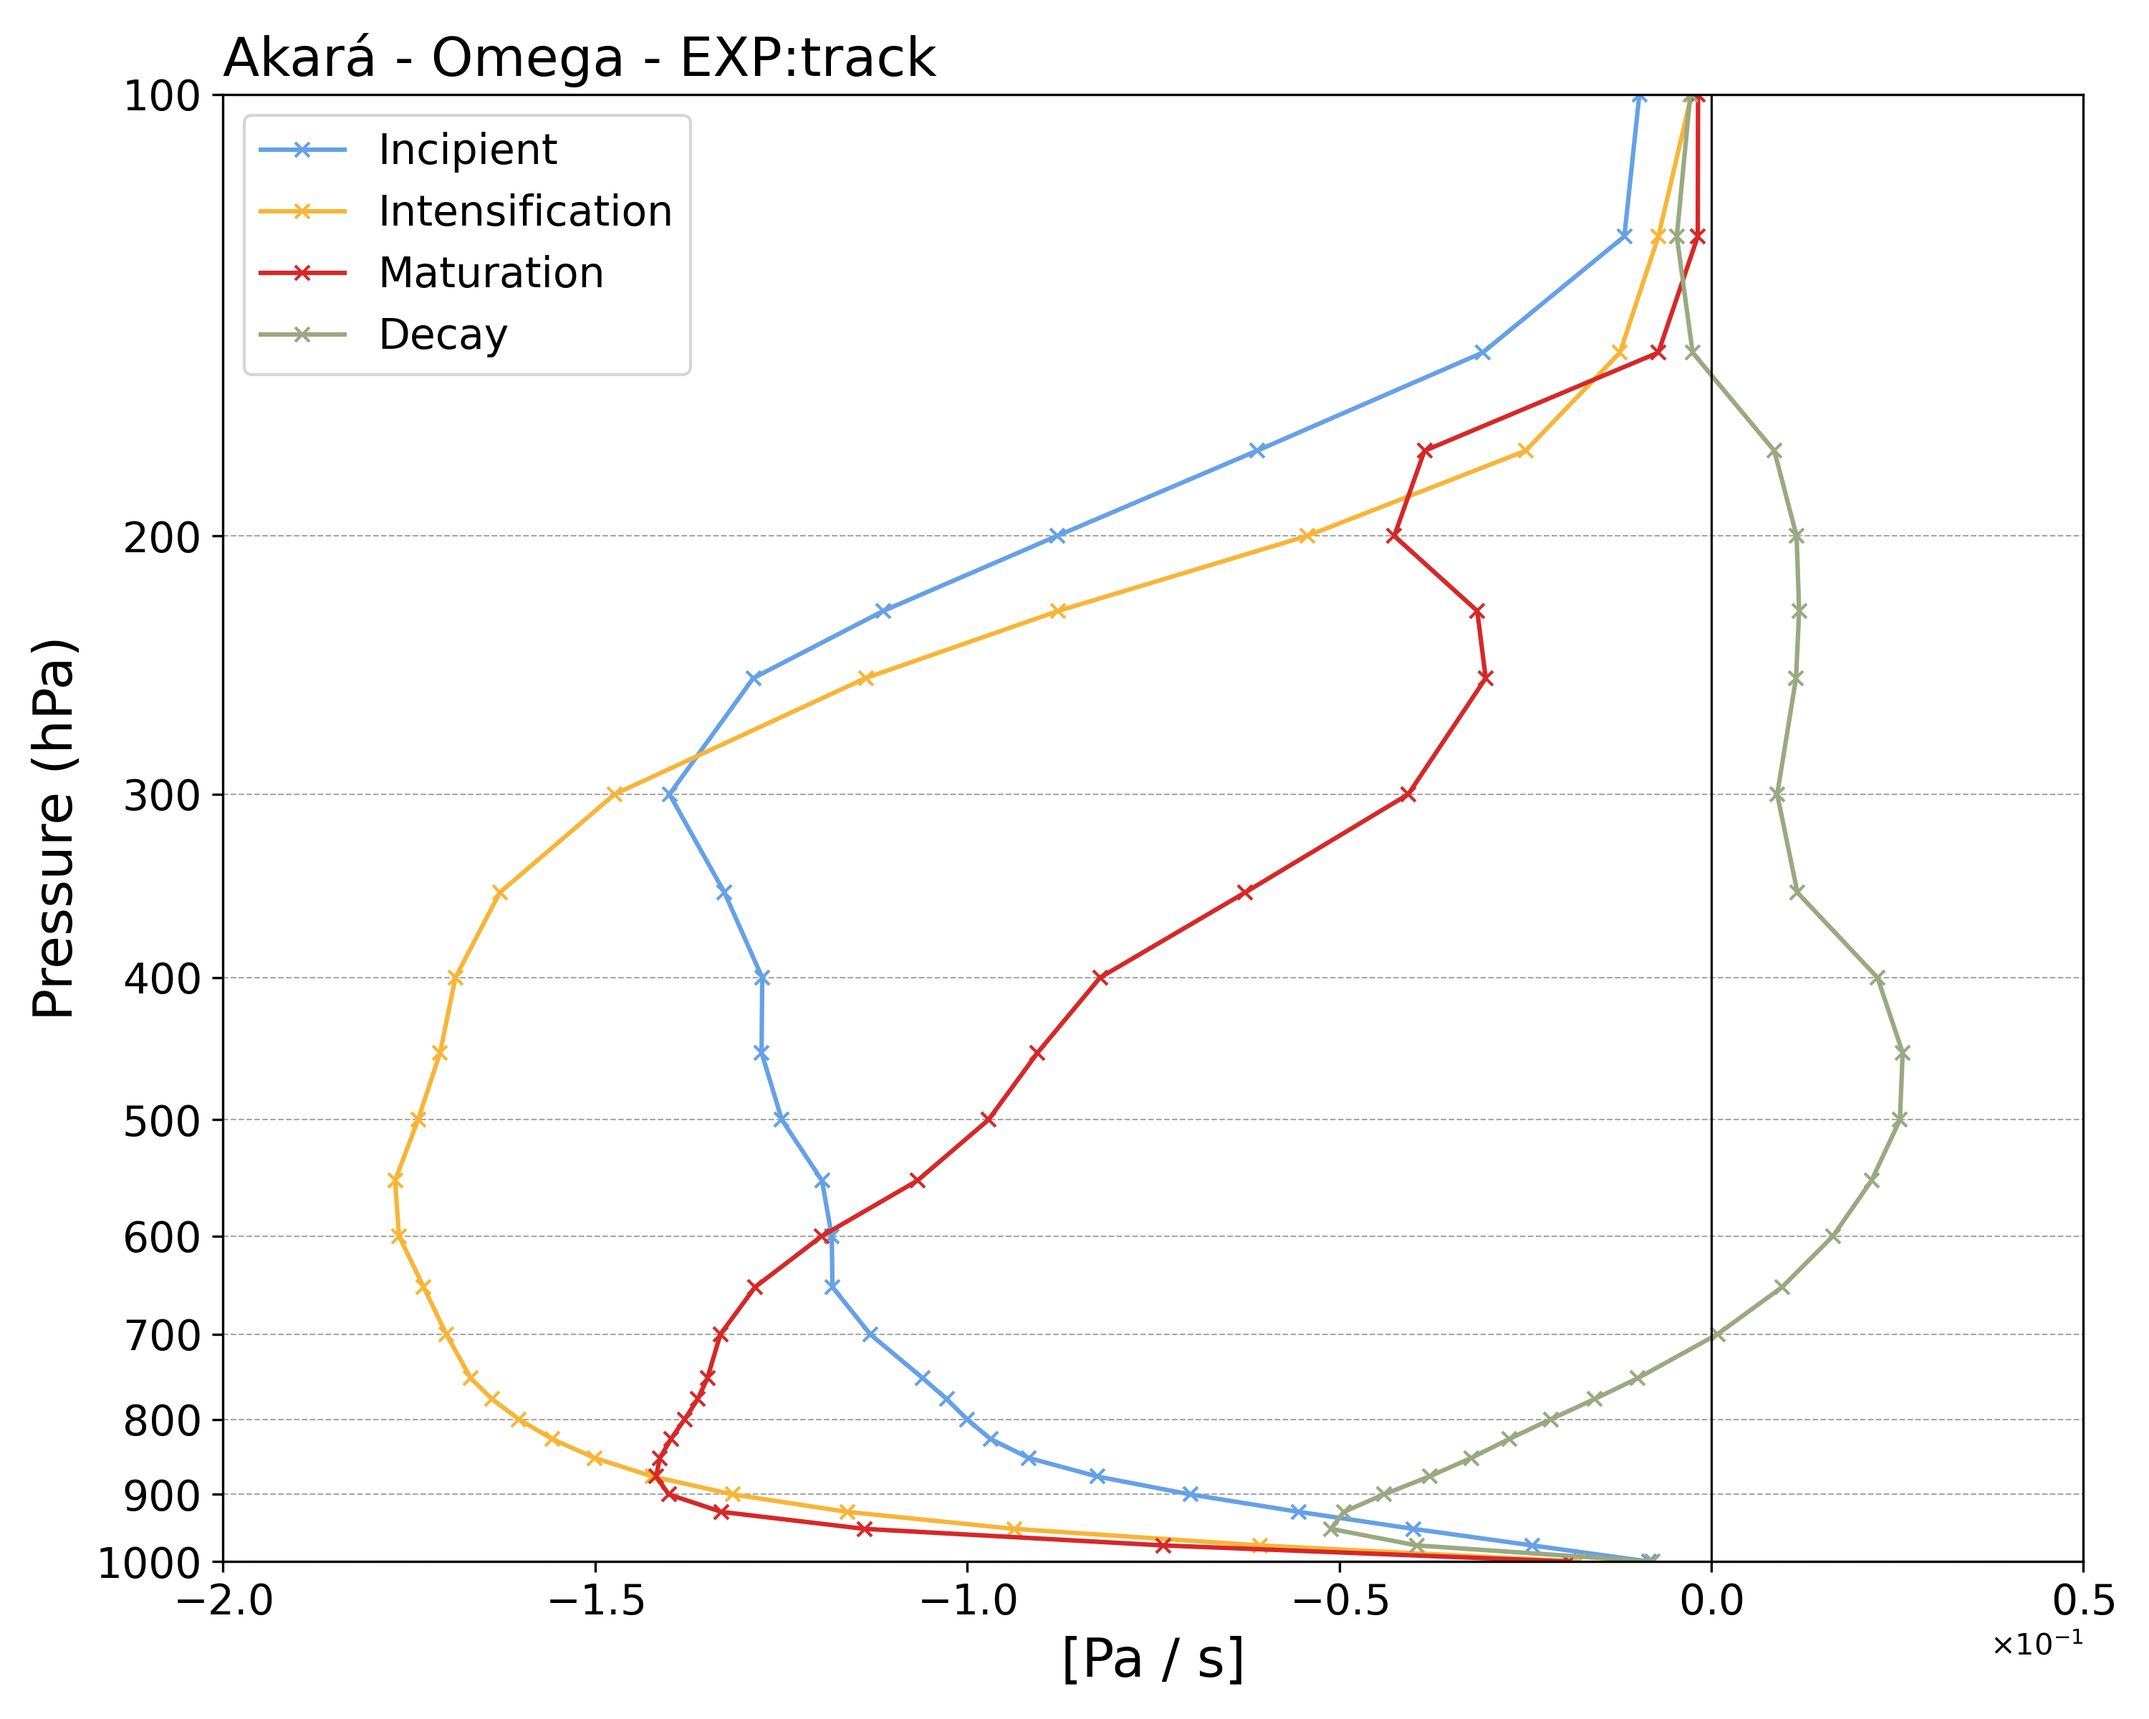
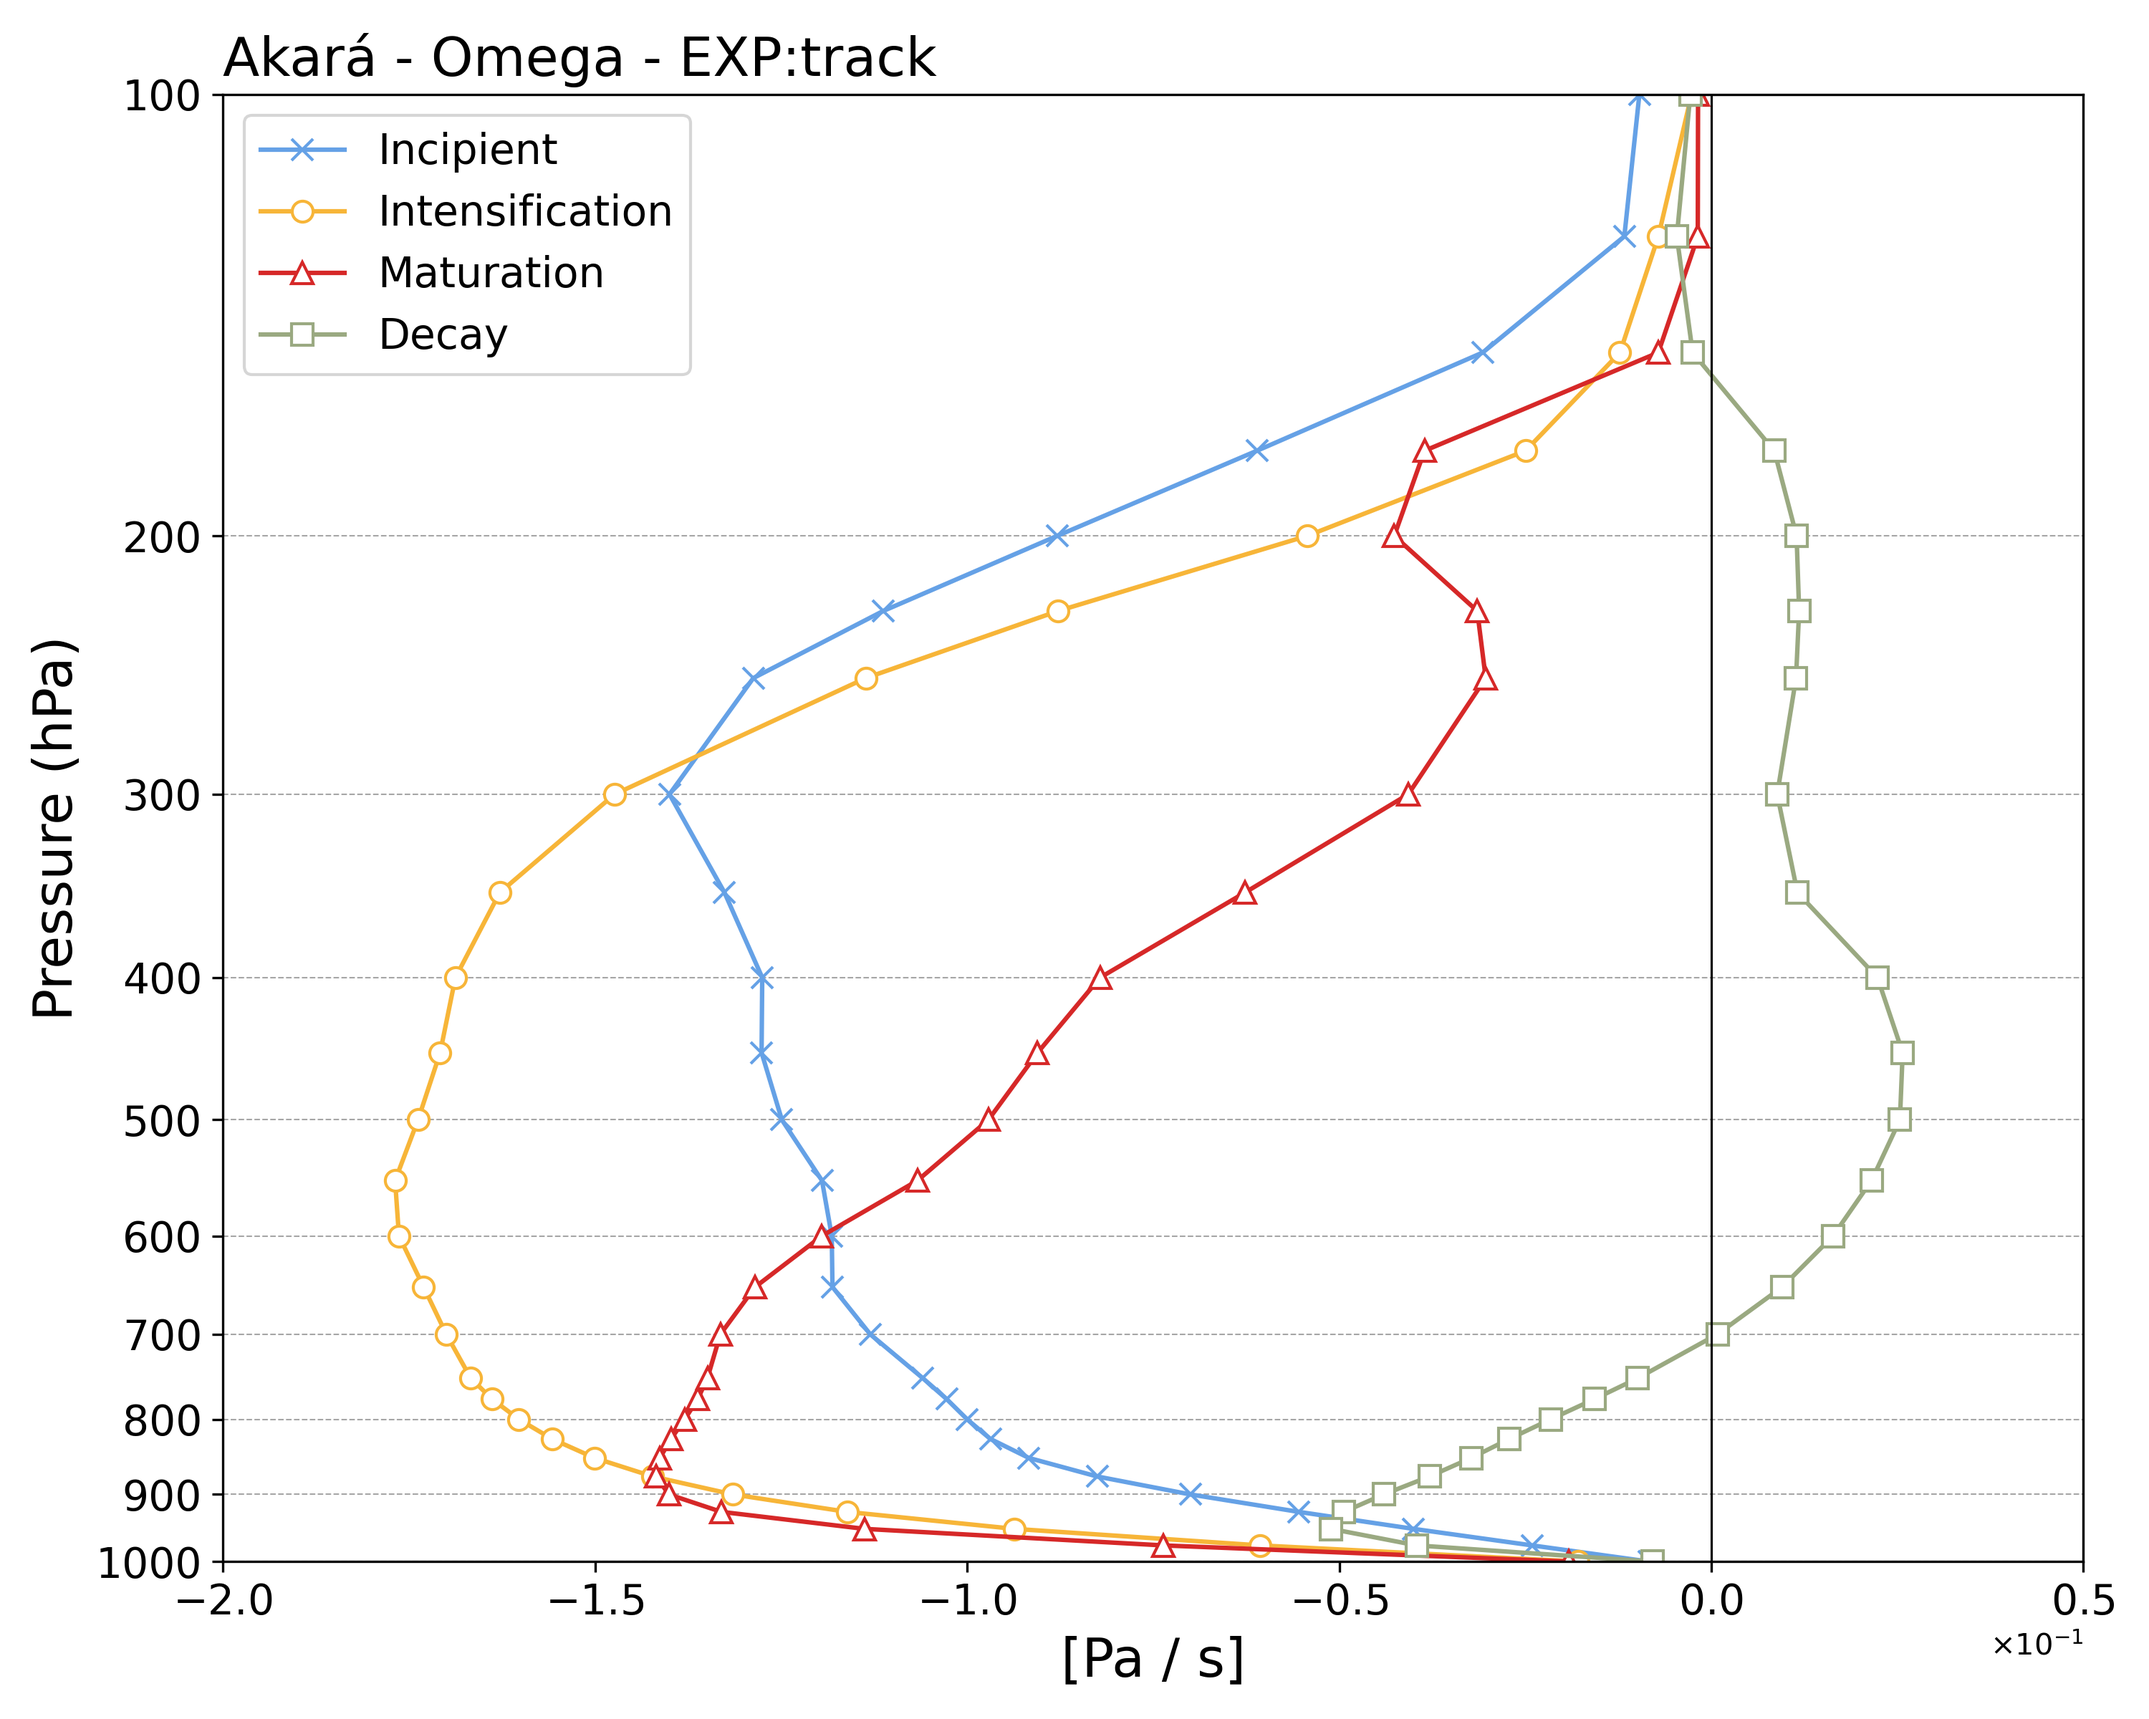
atualização

diff --git a/Akara/AtmosBud/akara1_track/Scripts/T_perfil.py b/Akara/AtmosBud/akara1_track/Scripts/T_perfil.py
@@ -1,31 +1,22 @@
 import matplotlib.pyplot as plt
 import matplotlib.ticker as ticker
 import pandas as pd
-import numpy as np
 import os
 
+# ======================== SETUP DE CONFIGURAÇÃO ========================
 DIRDADO = '/home/victor/USP/sinotica3/ATMOS-BUD_Results/Akara/AtmosBud/akara1_track/'
 DIRFIGS = '/home/victor/USP/sinotica3/ATMOS-BUD_Results/Akara/AtmosBud/akara1_track/Figures/T_balanc_track/'
-# Lista de arquivos de dados
-dTdt = DIRDADO + 'dTdt.csv'
-AdvHTemp = DIRDADO + 'AdvHTemp.csv'
-AdvVTemp = DIRDADO + 'AdvVTemp.csv'
-SigmaOmega = DIRDADO + 'Sigma_omega.csv'
-ResT = DIRDADO + 'ResT.csv'
 
-#lista_arquivos = [dTdt]
-#lista_arquivos = [AdvHTemp]
-#lista_arquivos = [AdvVTemp]
-lista_arquivos = [SigmaOmega]
-#lista_arquivos = [ResT]
+# Configurações específicas para cada arquivo
+configs = {
+    'dTdt': {'label': 'Local Temperature Tendency', 'vmin': -0.25, 'vmax': 0.5},
+    'AdvHTemp': {'label': 'Horizontal Temperature Advection', 'vmin': -2, 'vmax': 2},
+    'AdvVTemp': {'label': 'Vertical Temperature Advection', 'vmin': -2, 'vmax': 2},
+    'Sigma_omega': {'label': 'Total Vertical Motion Effect', 'vmin': -15, 'vmax': 5},
+    'ResT': {'label': 'Diabatic Heating', 'vmin': -1, 'vmax': 1}
+}
 
-labels = ['Local Temperature Tendency',
-          'Horizontal Temperature Advection',
-          'Vertical Temperature Advection',
-          'Total Vertical Motion Effect',
-          'Diabatic Heating'] 
-
-# Intervalos de datas a serem usados para as fases
+# Intervalos de datas para as fases
 date_intervals = [
     ('2024-02-14T21', '2024-02-16T09'),  # Incipiente
     ('2024-02-16T09', '2024-02-19T15'),  # Intensificação
@@ -33,66 +24,71 @@ date_intervals = [
     ('2024-02-20T06', '2024-02-22T21')   # Declínio
 ]
 
-# Loop para processar cada arquivo da lista
-for i in lista_arquivos:
-    nome_arquivo = i.rsplit('/', 1)[-1].split('.')[0]  # Extrair nome do arquivo sem extensão
+# Nomes das fases e cores associadas
+curves = ['Incipient', 'Intensification', 'Maturation', 'Decay']
+colors = ['#65a1e6', '#f7b538', '#d62828', '#9aa981']  # Cores acessíveis para daltonismo
 
-    # Ler os dados em um DataFrame e ajustar o índice e as colunas
-    df = pd.read_csv(i, index_col=[0])
-    df.index = df.index / 100  # Ajustar o índice (supondo que esteja em decapascais)
-    df.columns = pd.to_datetime(df.columns)  # Converter colunas para datetime
-    df.columns = df.columns.strftime('%Y-%m-%dT%H')  # Formatar colunas como 'YYYY-MM-DDTHH'
+# Lista de marcadores diferentes
+markers = ['x', 'o', '^', 's']
 
-    # Criar subplots com tamanho maior verticalmente
-    fig, ax = plt.subplots(figsize=(8, 6))
+# ========================== LOOP PRINCIPAL ============================
+for nome_arquivo, config in configs.items():
+    caminho_arquivo = os.path.join(DIRDADO, nome_arquivo + '.csv')
 
-    # Cores acessíveis para daltonismo
-    colors = ['#65a1e6', '#f7b538', '#d62828', '#9aa981']
-    curves = ['Incipient', 'Intensification', 'Maturation', 'Decay']
+    # Verificar se o arquivo existe
+    if not os.path.isfile(caminho_arquivo):
+        print(f"Arquivo {caminho_arquivo} não encontrado. Pulando...")
+        continue
 
-    # Plotar cada fase usando os intervalos de data
-    for idx, date_interval in enumerate(date_intervals):
-        date1, date2 = date_interval
+    # Ler o arquivo CSV
+    df = pd.read_csv(caminho_arquivo, index_col=[0])
+    df.index = df.index / 100  # Ajustar índice (assumindo que está em decapascais)
+    df.columns = pd.to_datetime(df.columns).strftime('%Y-%m-%dT%H')
 
-        # Selecionar os dados do intervalo de tempo e calcular a média
+    # Criar subplots
+    fig, ax = plt.subplots(figsize=(10, 8))
+
+    # Plotar cada fase usando os intervalos de datas
+    for idx, (date1, date2) in enumerate(date_intervals):
         selected_data = df.loc[:, date1:date2]
         selected_data_mean = selected_data.mean(axis=1)
 
-        # Converter a média para valores diários (86400 segundos por dia)
-        dia = 86400
-        ax.plot(selected_data_mean * dia, df.index, label=curves[idx], 
-                color=colors[idx], marker='x', markerfacecolor='white', markersize=5)
+        # Usar marcadores diferentes para cada curva
+        ax.plot(
+            selected_data_mean, df.index, 
+            label=curves[idx], color=colors[idx], 
+            marker=markers[idx], markerfacecolor='white', markersize=7
+        )
 
-    # Configurações do eixo Y - Escala logarítmica
+    # Customizações do gráfico
+    ax.axvline(0, c='k', linewidth=0.75)  # Linha vertical em x=0
+    ax.invert_yaxis()
+    ax.set_ylim(1000, 100)
     ax.set_yscale('log')
-    
-    ax.set_ylim(1000, 100)  # Limites do eixo Y
     ax.set_yticks([1000, 900, 800, 700, 600, 500, 400, 300, 200, 100])
     ax.set_yticklabels([1000, 900, 800, 700, 600, 500, 400, 300, 200, 100])
+    ax.set_xlabel('[K / day]', fontsize=18)
+    ax.set_ylabel('Pressure (hPa)', fontsize=18)
+    ax.grid(axis='y', linestyle='--', color='gray', alpha=0.7, linewidth=0.5)
 
-    # Outras customizações do gráfico
-    ax.axvline(0, c='k', linewidth=0.75)  # Linha vertical em x=0
-    #ax.invert_yaxis()  # Inverter o eixo Y (pressão)
-    ax.grid(axis='y', linestyle='--', color='gray', alpha=0.7, linewidth=0.5)  # Linhas de grade horizontais
-
-    # Definir título e rótulos dos eixos
-    ax.set_title(f'Akará - Total Vertical Motion Effect - EXP:track', fontsize=12, loc='left')
-    ax.set_xlabel('[K / day]', fontsize=11)
-    ax.set_ylabel('Pressure (hPa)', fontsize=12)
-    ax.set_xlim([-15, 5])
-
-    # Formatação científica para o eixo X
+    # Formatação do título e eixos
+    ax.set_title(f"Akará - {config['label']} - EXP:track", fontsize=18, loc='left')
     ax.xaxis.set_major_formatter(ticker.ScalarFormatter(useMathText=True))
     ax.ticklabel_format(style='sci', axis='x', scilimits=(0, 0))
+    ax.tick_params(axis='x', labelsize=18)  # Aumentar tamanho dos valores no eixo x
+    ax.tick_params(axis='y', labelsize=18)
 
-    # Definir fundo do gráfico como branco
+    # Fundo do gráfico
     ax.set_facecolor('#ffffff')
     fig.patch.set_facecolor('#ffffff')
 
-    # Exibir legenda e ajustar layout
-    plt.legend()
+    # Legenda e layout
+    plt.legend(fontsize=14)
     plt.tight_layout()
 
     # Salvar a figura
-    plt.savefig(DIRFIGS + nome_arquivo + '_track.png', dpi=300)
-    plt.close()  # Fechar a figura para liberar memória
+    caminho_fig = os.path.join(DIRFIGS, f"{nome_arquivo}_track.png")
+    plt.savefig(caminho_fig, dpi=300)
+    plt.close()
+
+    print(f"Figura salva: {caminho_fig}")

diff --git a/Akara/AtmosBud/akara1_track/Scripts/zeta_perfil.py b/Akara/AtmosBud/akara1_track/Scripts/zeta_perfil.py
@@ -8,12 +8,9 @@ DIRDADO = '/home/victor/USP/sinotica3/ATMOS-BUD_Results/Akara/AtmosBud/akara1_tr
 DIRFIGS = '/home/victor/USP/sinotica3/ATMOS-BUD_Results/Akara/AtmosBud/akara1_track/Figures/V_balanc_track/'
 
 # Lista de arquivos de dados
-
 Zeta = DIRDADO + 'Zeta.csv'
 
 lista_arquivos = [Zeta]
-
-
 labels = ['Zeta']
 
 # Intervalos de datas a serem usados para as fases
@@ -23,6 +20,9 @@ date_intervals = [
     ('2024-02-19T15', '2024-02-20T06'),  # Maturação
     ('2024-02-20T06', '2024-02-22T21')   # Declínio
 ]
+
+# Marcadores diferentes para cada fase
+markers = ['x', 'o', '^', 's', 'd', 'p', 'H', '*']
 
 # Loop para processar cada arquivo da lista
 for i in lista_arquivos:
@@ -49,10 +49,12 @@ for i in lista_arquivos:
         selected_data = df.loc[:, date1:date2]
         selected_data_mean = selected_data.mean(axis=1)
 
-        # Converter a média para valores diários (86400 segundos por dia)
-        #dia = 86400
-        ax.plot(selected_data_mean, df.index, label=curves[idx], 
-                color=colors[idx], marker='x', markerfacecolor='white', markersize=5)
+        # Usar marcadores diferentes para cada fase
+        ax.plot(
+            selected_data_mean, df.index, 
+            label=curves[idx], color=colors[idx], 
+            marker=markers[idx], markerfacecolor='white', markersize=7
+        )
 
     # Customizações do gráfico
     ax.axvline(0, c='k', linewidth=0.75)  # Linha vertical em x=0
@@ -68,7 +70,7 @@ for i in lista_arquivos:
     ax.set_title(f'Akará - Zeta - EXP:track', fontsize=12, loc='left')
     ax.set_xlabel('[1/s²]', fontsize=11)
     ax.set_ylabel('Pressure (hPa)', fontsize=12)
-    ax.set_xlim([-14e-5,2e-5])
+    ax.set_xlim([-14e-5, 2e-5])
 
     # Formatação científica para o eixo X
     ax.xaxis.set_major_formatter(ticker.ScalarFormatter(useMathText=True))
@@ -83,7 +85,7 @@ for i in lista_arquivos:
     fig.patch.set_facecolor('#ffffff')
 
     # Exibir legenda e ajustar layout
-    plt.legend()
+    plt.legend(fontsize=14)
     plt.tight_layout()
 
     # Salvar a figura

diff --git a/Akara/AtmosBud/akara1_track/Scripts/omega_perfil.py b/Akara/AtmosBud/akara1_track/Scripts/omega_perfil.py
@@ -7,14 +7,9 @@ import os
 DIRDADO = '/home/victor/USP/sinotica3/ATMOS-BUD_Results/Akara/AtmosBud/akara1_track/'
 DIRFIGS = '/home/victor/USP/sinotica3/ATMOS-BUD_Results/Akara/AtmosBud/akara1_track/Figures/V_balanc_track/'
 
-
 # Lista de arquivos de dados
-
 Omega = DIRDADO + 'Omega.csv'
-
 lista_arquivos = [Omega]
-
-
 labels = ['Omega']
 
 # Intervalos de datas a serem usados para as fases
@@ -24,6 +19,7 @@ date_intervals = [
     ('2024-02-19T15', '2024-02-20T06'),  # Maturação
     ('2024-02-20T06', '2024-02-22T21')   # Declínio
 ]
+markers = ['x', 'o', '^', 's', 'd', 'p', 'H', '*']
 
 # Loop para processar cada arquivo da lista
 for i in lista_arquivos:
@@ -50,10 +46,12 @@ for i in lista_arquivos:
         selected_data = df.loc[:, date1:date2]
         selected_data_mean = selected_data.mean(axis=1)
 
-        # Converter a média para valores diários (86400 segundos por dia)
-        #dia = 86400
-        ax.plot(selected_data_mean, df.index, label=curves[idx], 
-                color=colors[idx], marker='x', markerfacecolor='white', markersize=5)
+        # Usar marcadores diferentes para cada curva
+        ax.plot(
+            selected_data_mean, df.index, 
+            label=curves[idx], color=colors[idx], 
+            marker=markers[idx], markerfacecolor='white', markersize=7
+        )
 
     # Customizações do gráfico
     ax.axvline(0, c='k', linewidth=0.75)  # Linha vertical em x=0
@@ -68,7 +66,7 @@ for i in lista_arquivos:
     ax.set_title(f'Akará - Omega - EXP:track', fontsize=18, loc='left')
     ax.set_xlabel('[Pa / s]', fontsize=18)
     ax.set_ylabel('Pressure (hPa)', fontsize=18)
-    ax.set_xlim([-2e-1,0.5e-1])
+    ax.set_xlim([-2e-1, 0.5e-1])
 
     # Formatação científica para o eixo X
     ax.xaxis.set_major_formatter(ticker.ScalarFormatter(useMathText=True))

diff --git a/Akara/AtmosBud/akara1_track/Scripts/V_perfil.py b/Akara/AtmosBud/akara1_track/Scripts/V_perfil.py
@@ -32,6 +32,9 @@ date_intervals = [
 curves = ['Incipient', 'Intensification', 'Maturation', 'Decay']
 colors = ['#65a1e6', '#f7b538', '#d62828', '#9aa981']  # Cores acessíveis para daltonismo
 
+# Lista de marcadores diferentes
+markers = ['x', 'o', '^', 's', 'd', 'p', 'H', '*']
+
 # ========================== LOOP PRINCIPAL ============================
 for nome_arquivo, config in configs.items():
     caminho_arquivo = os.path.join(DIRDADO, nome_arquivo + '.csv')
@@ -54,10 +57,11 @@ for nome_arquivo, config in configs.items():
         selected_data = df.loc[:, date1:date2]
         selected_data_mean = selected_data.mean(axis=1)
 
+        # Usar marcadores diferentes para cada curva
         ax.plot(
             selected_data_mean, df.index, 
             label=curves[idx], color=colors[idx], 
-            marker='x', markerfacecolor='white', markersize=5
+            marker=markers[idx], markerfacecolor='white', markersize=7
         )
 
     # Customizações do gráfico
